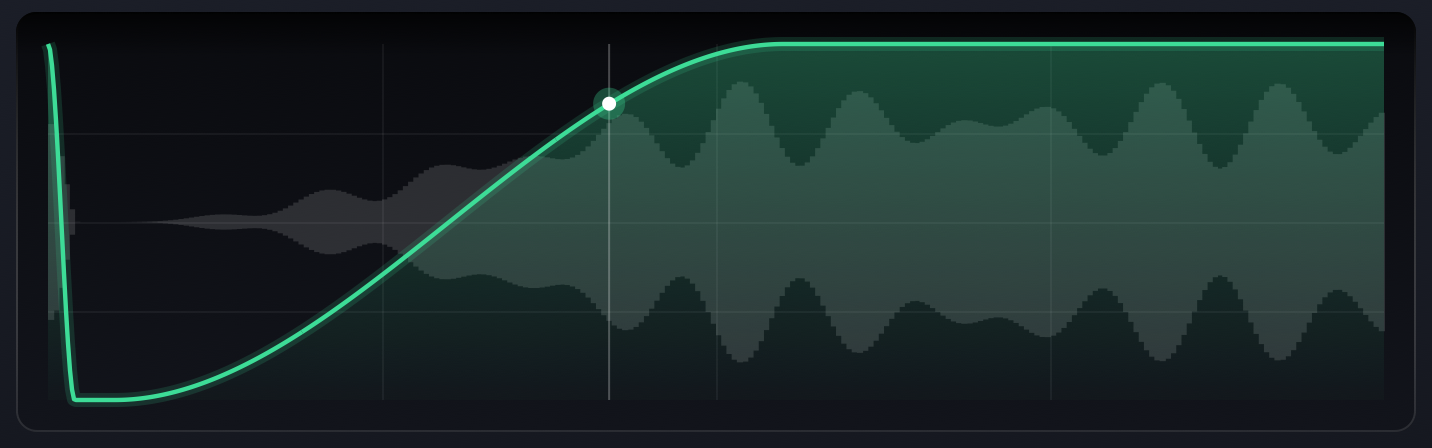
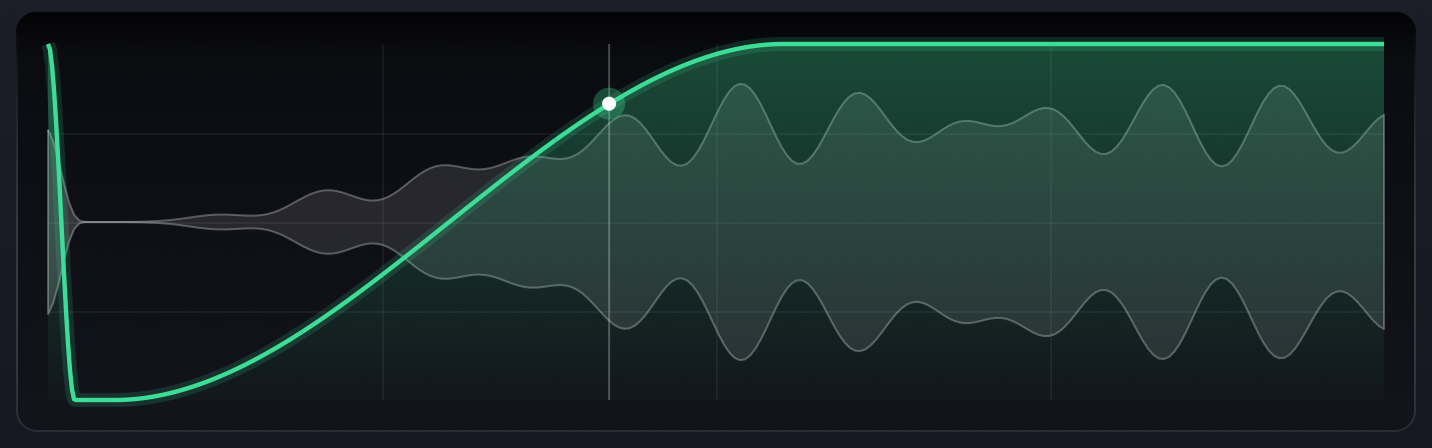
Smooth waveform outline; depth in the hardware look

diff --git a/Source/PluginProcessor.cpp b/Source/PluginProcessor.cpp
@@ -51,6 +51,9 @@ void drawCard (juce::Graphics& g, juce::Rectangle<float> area, float radius = 10
     cardShadow.drawForPath (g, outline);
     if (hardware)
     {
+        juce::DropShadow (juce::Colours::black.withAlpha (0.75f), 30, { 0, 16 }).drawForPath (g, outline);
+        g.setColour (juce::Colour (0xff050506)); // the slab's front edge
+        g.fillRoundedRectangle (area.translated (0.0f, 5.0f), radius);
         {
             juce::Graphics::ScopedSaveState clip (g);
             g.reduceClipRegion (outline);
@@ -151,9 +154,15 @@ struct UndertowLook : juce::LookAndFeel_V4
 
         const float outer = radius - 10.0f;
         const auto skirt = juce::Rectangle<float> (outer * 2.0f, outer * 2.0f).withCentre (centre);
+        const float height = 8.0f; // how far the knob stands off the panel
+        juce::Path footprint;
+        footprint.addEllipse (skirt.translated (0.0f, height));
+        juce::DropShadow (juce::Colours::black.withAlpha (0.9f), 24, { 0, 16 }).drawForPath (g, footprint);
+        g.setGradientFill ({ juce::Colour (0xff24262a), skirt.getX(), 0.0f, juce::Colour (0xff060607), skirt.getRight(), 0.0f, false });
+        g.fillPath (footprint); // side wall: the base ellipse, joined up to the top face
+        g.fillRect (skirt.getX(), centre.y, skirt.getWidth(), height);
         juce::Path skirtPath;
         skirtPath.addEllipse (skirt);
-        juce::DropShadow (juce::Colours::black.withAlpha (0.85f), 14, { 0, 7 }).drawForPath (g, skirtPath);
         g.setGradientFill ({ juce::Colour (0xff2a2c31), 0.0f, skirt.getY(), juce::Colour (0xff050506), 0.0f, skirt.getBottom(), false });
         g.fillPath (skirtPath);
         for (int i = 0; i < 48; ++i) // knurling
@@ -165,7 +174,9 @@ struct UndertowLook : juce::LookAndFeel_V4
 
         const float capRadius = outer - 6.0f;
         const auto cap = juce::Rectangle<float> (capRadius * 2.0f, capRadius * 2.0f).withCentre (centre);
-        g.setGradientFill ({ juce::Colour (0xff474a52), 0.0f, cap.getY(), juce::Colour (0xff101113), 0.0f, cap.getBottom(), false });
+        g.setColour (juce::Colours::black.withAlpha (0.7f)); // the cap is raised off the knurled ring
+        g.fillEllipse (cap.translated (0.0f, 3.5f).expanded (1.0f));
+        g.setGradientFill ({ juce::Colour (0xff50535c), 0.0f, cap.getY(), juce::Colour (0xff101113), 0.0f, cap.getBottom(), false });
         g.fillEllipse (cap);
         {
             juce::Graphics::ScopedSaveState clip (g); // spun-metal highlights
@@ -196,11 +207,31 @@ struct UndertowLook : juce::LookAndFeel_V4
 
     void drawButtonBackground (juce::Graphics& g, juce::Button& button, const juce::Colour&, bool over, bool down) override
     {
+        const bool on = button.getToggleState();
+
+        if (hardware) // a physical key in a well: it has thickness, and sits lower when lit
+        {
+            const auto well = button.getLocalBounds().toFloat().reduced (3.0f);
+            g.setColour (juce::Colours::black.withAlpha (0.92f));
+            g.fillRoundedRectangle (well, 6.0f);
+
+            const auto top = on || down ? well.reduced (1.5f).withTrimmedTop (2.5f) : well.reduced (1.5f).withTrimmedBottom (4.0f);
+            juce::Path key;
+            key.addRoundedRectangle (top, 5.0f);
+            if (on)
+                juce::DropShadow (accent.withAlpha (0.5f), 10, {}).drawForPath (g, key);
+            const auto colour = on ? accent : face (over);
+            g.setGradientFill ({ colour.brighter (on ? 0.25f : 0.18f), 0.0f, top.getY(), colour.darker (on ? 0.15f : 0.35f), 0.0f, top.getBottom(), false });
+            g.fillPath (key);
+            g.setGradientFill ({ juce::Colours::white.withAlpha (0.30f), 0.0f, top.getY(), juce::Colours::transparentWhite, 0.0f, top.getY() + 7.0f, false });
+            g.strokePath (key, juce::PathStrokeType (1.0f));
+            return;
+        }
+
         const auto area = button.getLocalBounds().toFloat().reduced (3.0f, 4.0f);
         juce::Path outline;
         outline.addRoundedRectangle (area, 6.0f);
-
-        if (button.getToggleState())
+        if (on)
         {
             juce::DropShadow (accent.withAlpha (0.45f), 8, {}).drawForPath (g, outline); // glow
             g.setGradientFill ({ accent.brighter (0.25f), 0.0f, area.getY(), accent.darker (0.15f), 0.0f, area.getBottom(), false });
@@ -213,14 +244,6 @@ struct UndertowLook : juce::LookAndFeel_V4
             g.setGradientFill ({ top, 0.0f, area.getY(), top.darker (0.25f), 0.0f, area.getBottom(), false });
         }
         g.fillPath (outline);
-        if (hardware) // a physical key: dark surround, bright top edge
-        {
-            g.setColour (juce::Colours::black.withAlpha (0.85f));
-            g.strokePath (outline, juce::PathStrokeType (2.0f));
-            g.setGradientFill ({ juce::Colours::white.withAlpha (0.16f), 0.0f, area.getY(), juce::Colours::transparentWhite, 0.0f, area.getY() + 8.0f, false });
-            g.fillRoundedRectangle (area.reduced (2.0f, 1.5f).withHeight (7.0f), 4.0f);
-            return;
-        }
         g.setGradientFill ({ juce::Colours::white.withAlpha (0.16f), 0.0f, area.getY(), juce::Colours::transparentWhite, 0.0f, area.getCentreY(), false });
         g.strokePath (outline, juce::PathStrokeType (1.0f));
     }
@@ -341,6 +364,11 @@ public:
             juce::Path outline;
             outline.addRoundedRectangle (area, 6.0f);
 
+            if (hardware) // tiles have thickness too
+            {
+                g.setColour (juce::Colours::black.withAlpha (0.9f));
+                g.fillRoundedRectangle (area.translated (0.0f, on ? 1.0f : 3.5f), 6.0f);
+            }
             if (on)
                 juce::DropShadow (accent.withAlpha (0.35f), 8, {}).drawForPath (g, outline);
             else
@@ -538,9 +566,9 @@ private:
         const auto frame = screen.toFloat();
         if (hardware) // a raised bezel around the glass
         {
-            const auto bezel = frame.expanded (5.0f);
+            const auto bezel = frame.expanded (7.0f);
             g.setGradientFill ({ juce::Colour (0xff040405), 0.0f, bezel.getY(), juce::Colour (0xff2a2c31), 0.0f, bezel.getBottom(), false });
-            g.fillRoundedRectangle (bezel, 13.0f);
+            g.fillRoundedRectangle (bezel, 15.0f);
         }
         g.setGradientFill ({ screenTop, 0.0f, frame.getY(), screenBottom, 0.0f, frame.getBottom(), false });
         g.fillRoundedRectangle (frame, 10.0f);
@@ -549,8 +577,9 @@ private:
             juce::Path outline;
             outline.addRoundedRectangle (frame, 10.0f);
             g.reduceClipRegion (outline);
-            g.setGradientFill ({ juce::Colours::black.withAlpha (0.7f), 0.0f, frame.getY(), juce::Colours::transparentBlack, 0.0f, frame.getY() + 22.0f, false });
-            g.fillRect (frame.withHeight (22.0f));
+            const float depth = hardware ? 52.0f : 22.0f;
+            g.setGradientFill ({ juce::Colours::black.withAlpha (hardware ? 0.9f : 0.7f), 0.0f, frame.getY(), juce::Colours::transparentBlack, 0.0f, frame.getY() + depth, false });
+            g.fillRect (frame.withHeight (depth));
         }
         g.setGradientFill ({ juce::Colours::black.withAlpha (0.6f), 0.0f, frame.getY(), juce::Colours::white.withAlpha (0.10f), 0.0f, frame.getBottom(), false });
         g.drawRoundedRectangle (frame.reduced (0.5f), 10.0f, 1.0f);
@@ -568,17 +597,27 @@ private:
         const float mixNow = (float) mix.getValue() / 100.0f, shiftNow = (float) shift.getValue() / 100.0f,
                     lengthNow = juce::jmax (0.1f, (float) length.getValue() / 100.0f);
 
-        if (running) // output level across the cycle, mirrored around the middle
+        if (running) // output level across the cycle, mirrored around the middle, as one smooth outline
         {
+            constexpr int bins = UndertowProcessor::scopeSize;
+            const auto level = [&] (int i) { return juce::jlimit (0.0f, 1.0f, proc.scope[(size_t) juce::jlimit (0, bins - 1, i)].load()); };
+            std::array<float, bins> heights;
+            for (int i = 0; i < bins; ++i) // average each bin with its neighbours so the edge has no steps
+                heights[(size_t) i] = (level (i - 2) + 2.0f * level (i - 1) + 3.0f * level (i) + 2.0f * level (i + 1) + level (i + 2)) / 9.0f * plot.getHeight() * 0.5f;
+
+            const float mid = plot.getCentreY(), step = plot.getWidth() / (float) (bins - 1);
             juce::Path wave;
-            const float mid = plot.getCentreY(), step = plot.getWidth() / (float) UndertowProcessor::scopeSize;
-            for (int i = 0; i < UndertowProcessor::scopeSize; ++i)
-            {
-                const float half = juce::jlimit (0.0f, 1.0f, proc.scope[(size_t) i].load()) * plot.getHeight() * 0.5f;
-                wave.addRectangle (plot.getX() + (float) i * step, mid - half, step + 0.5f, half * 2.0f);
-            }
-            g.setColour (juce::Colours::white.withAlpha (0.13f));
+            wave.startNewSubPath (plot.getX(), mid - heights[0]);
+            for (int i = 1; i < bins; ++i)
+                wave.lineTo (plot.getX() + (float) i * step, mid - heights[(size_t) i]);
+            for (int i = bins; --i >= 0;)
+                wave.lineTo (plot.getX() + (float) i * step, mid + heights[(size_t) i]);
+            wave.closeSubPath();
+
+            g.setGradientFill ({ juce::Colours::white.withAlpha (0.24f), 0.0f, mid, juce::Colours::white.withAlpha (0.10f), 0.0f, plot.getY(), true });
             g.fillPath (wave);
+            g.setColour (juce::Colours::white.withAlpha (0.28f));
+            g.strokePath (wave, juce::PathStrokeType (1.0f, juce::PathStrokeType::curved));
         }
 
         const auto curve = shapePath (plot, grid.selected, mixNow, shiftNow, lengthNow);
